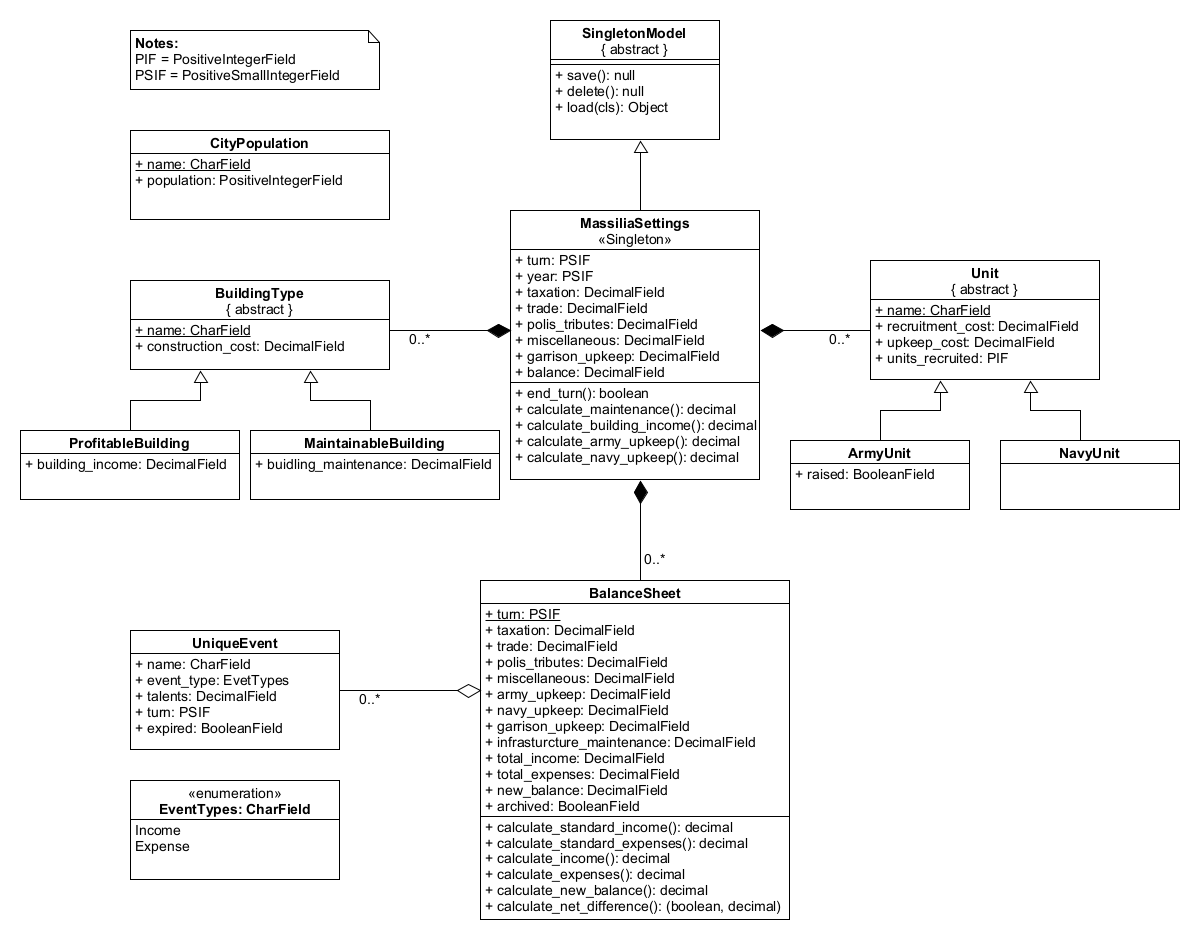
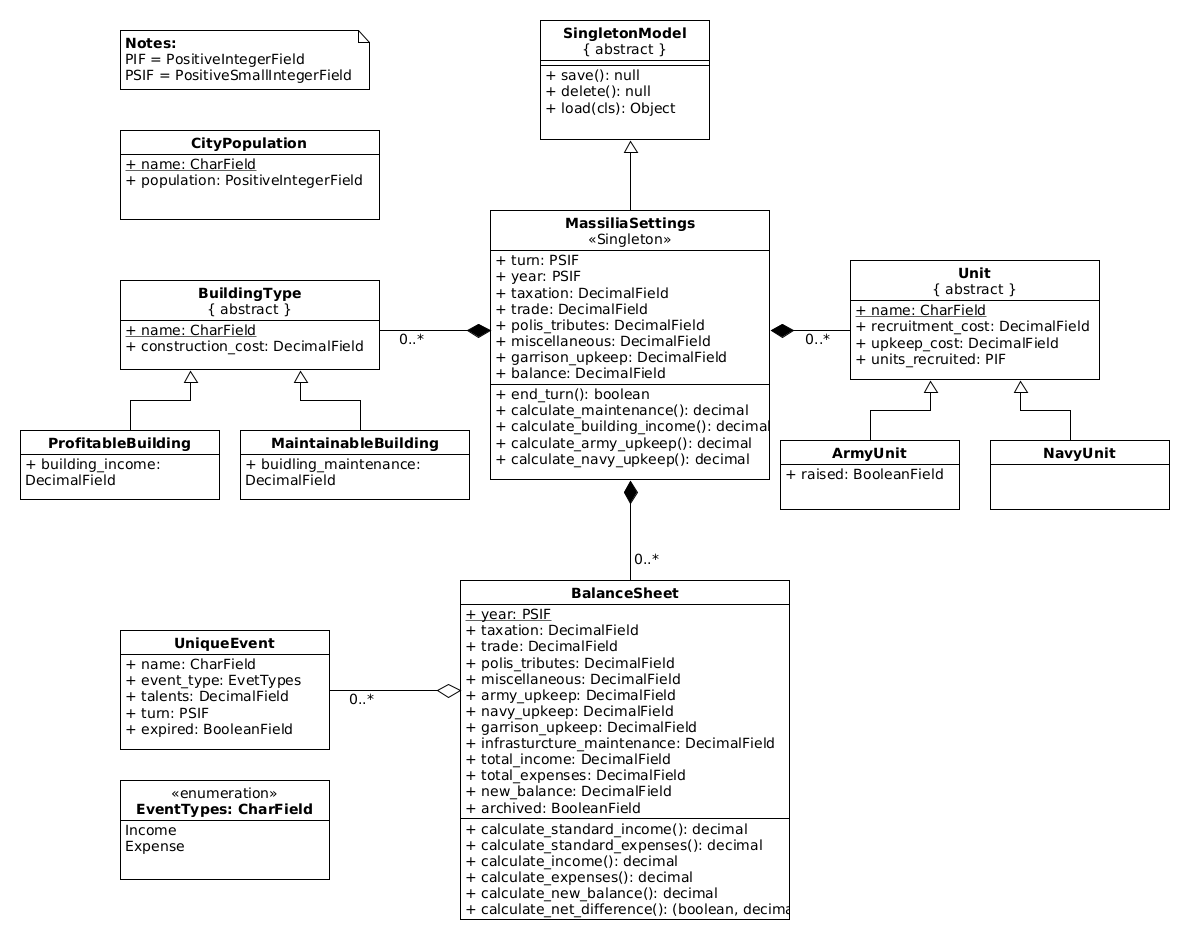
Documentation 01

diff --git a/README.md b/README.md
@@ -13,15 +13,15 @@ A wep application for automating the Massalia roleplay Discord server's game.
 
 ##### Economy
 
-The game is turn-based and each turn represents a span of 6 months. After each turn a new balance is calculated based on the players' actions. The virtual city's income is the sum of its taxation, trade, tributes and other one time events. On the other hand, the city's expenses result from the army's and navy's upkeep costs, plus the infrastructure's maintenance expenses. One time events may also affect the city's expenses. A balance sheet is generated at the end of each turn, while the previous turn's balance sheet is archived.
+The game is turn-based and each turn represents a span of 6 months. After each year(2 turns) a new balance is calculated based on the players' actions. The virtual city's income is the sum of its taxation, trade, tributes and other one time events. On the other hand, the city's expenses result from the army's and navy's upkeep costs, plus the infrastructure's maintenance expenses. One time events may also affect the city's expenses. A balance sheet is generated at the end of each year, while the previous year's balance sheet is archived.
 
 ##### Army & navy
 
-The web app stores the amount of each unit present in the Massilian army and navy. Each unit has a specific upkeep cost. Using the previous data, the application can calculate the entire upkeep cost the city must pay each turn. New units and unit types can also be created using the website.
+The web app stores the amount of each unit present in the Massilian army and navy. Each unit has a specific upkeep cost. Using the previous data, the application can calculate the entire upkeep cost the city must pay each year. New units and unit types can also be created using the website.
 
 ##### Infrastructure
 
-The city of Massilia has a number of buildings that contribute to the city's prosperity. Every building must be maintained each turn. Thus, every buidling's expenses must be taken into consideration at the end of every turn. On the other hand, buildings generate profit every 2 turns. The city can house multiple buildings of the same type. New building types can also be created.
+The city of Massilia has a number of buildings that contribute to the city's prosperity. Every building must be maintained each year. Thus, every buidling's expenses must be taken into consideration at the end of every year. Accordingly, buildings generate profit every 2 turns. The city can house multiple buildings of the same type. New building types can also be created.
 
 ##### Demographics
 
@@ -34,12 +34,12 @@ As of now all users have the same privileges and are subject to the same restric
 ### Functional requirements
 
 1. Users can login using their username and password.
-2. Turns have only one balance sheet.
+2. Years have only one balance sheet.
 3. A balance sheet is composed by an income section and an expenses section.
 4. The income section is generated using the city's taxation, trade income, polis tributes and unique events that add income.
 5. The expenses section contains the upkeep costs and the infrastructure maintenance expenses, in addtion to any unique events that create more expenses.
 6. The units' upkeep and the infrastructure's maintenance costs are calculated using the city's army, navy and buildings stats.
-7. Unique events influence only 1 turn.
+7. Unique events influence only 1 turn(by extension 1 year).
 8. Users can create new units.
 9. Users can create new unit types.
 10. Users can create new buildings.

diff --git a/docs/markdown/software-requirements.md b/docs/markdown/software-requirements.md
@@ -4,7 +4,7 @@
 
 ### Introduction
 
-This document presents a synopsis of the software requirements for the online application. The document also elaborates on second use case, named *"Change Turn"*.
+This document presents a synopsis of the software requirements for the online application. The document also elaborates on the second use case, named *"Change Turn"*.
 
 ### Full description
 
@@ -35,7 +35,7 @@ This document presents a synopsis of the software requirements for the online ap
 
 ##### UC1 - User Login
 
-##### [UC2 - Change Turn](uc2-change-turn.md)
+##### [UC2 - Change Year](uc2-change-year.md)
 
 ##### UC3 - Edit Army & Navy
 
@@ -50,7 +50,7 @@ This document presents a synopsis of the software requirements for the online ap
 | Use case | Description |
 | :------: | ----------- |
 | 1        | The user logins using a simple HTML form. |
-| 2        | An *"End Turn"* button is always present on the right side of the navbar. |
+| 2        | An *"End Year"* button is always present on the right side of the navbar. |
 | 3, 4  | Army units, navy vessels and buildings use similar, simplistic forms. |
 
 ##### Quality characteristics

diff --git a/docs/markdown/uc2-change-year.md b/docs/markdown/uc2-change-year.md
@@ -1,16 +1,16 @@
 [< Back](software-requirements.md)
 
-### UC2 - Change Turn
+### UC2 - Change Year
 
 **Primary actor**: User  
-**Affiliated actors**: The user initiates the use case by clicking on the *"End turn"* button.  
-**Assumptions**: The user wishes to end the current turn. The user has probably altered some of the city's stats or has created unique events.
+**Affiliated actors**: The user initiates the use case by clicking on the *"End year"* button.  
+**Assumptions**: The user wishes to end the current year. The user has probably altered some of the city's stats or has created unique events.
 
 #### Basic flow
 
-##### A) The user ends the current turn
+##### A) The user ends the current year
 
-1. The *user* clicks on the *"End turn"* button.
+1. The *user* clicks on the *"End year"* button.
 2. The *user* confirms his previous action at the popup that appears.
 
 ##### Alternative flow
@@ -25,7 +25,7 @@
 2. Calculate income from all sources(including unique events).
 3. Calculate the cost for all expenses.
 5. Archive the previous balance sheet.
-6. Change the turn.
+6. Change the year.
 
 #### Activity diagram
 
